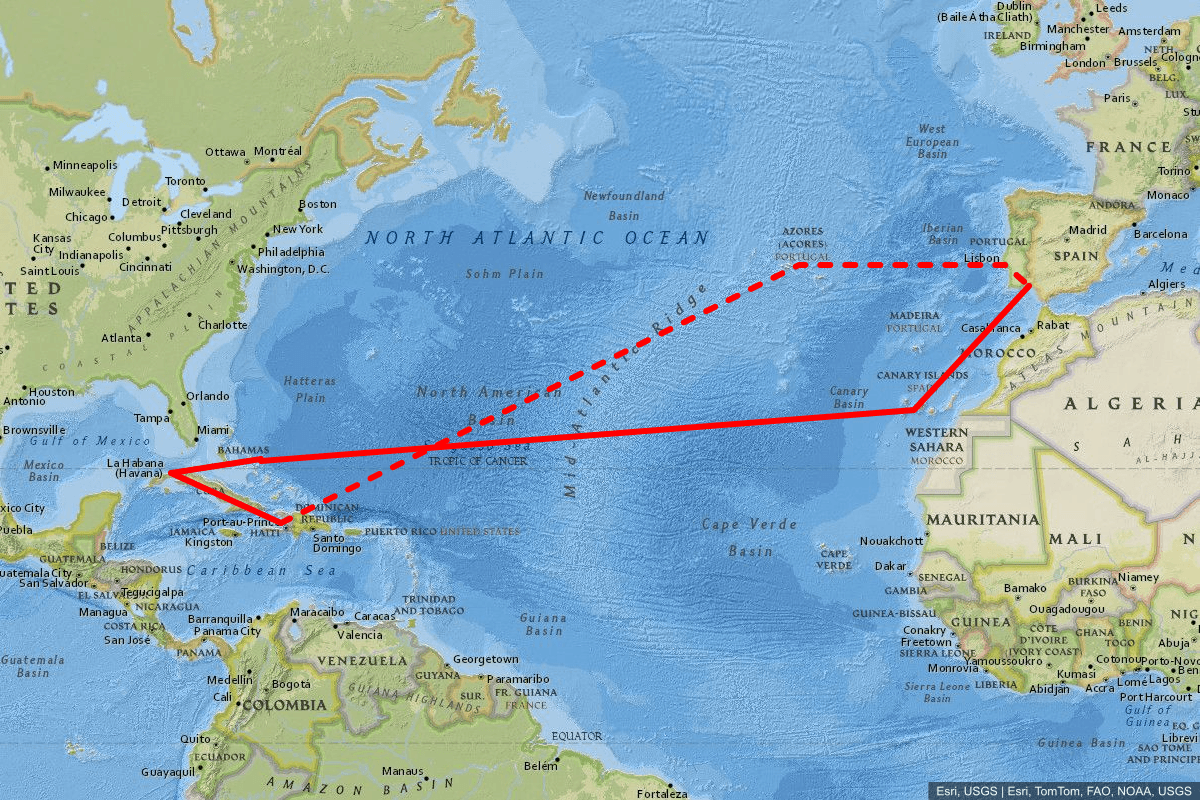
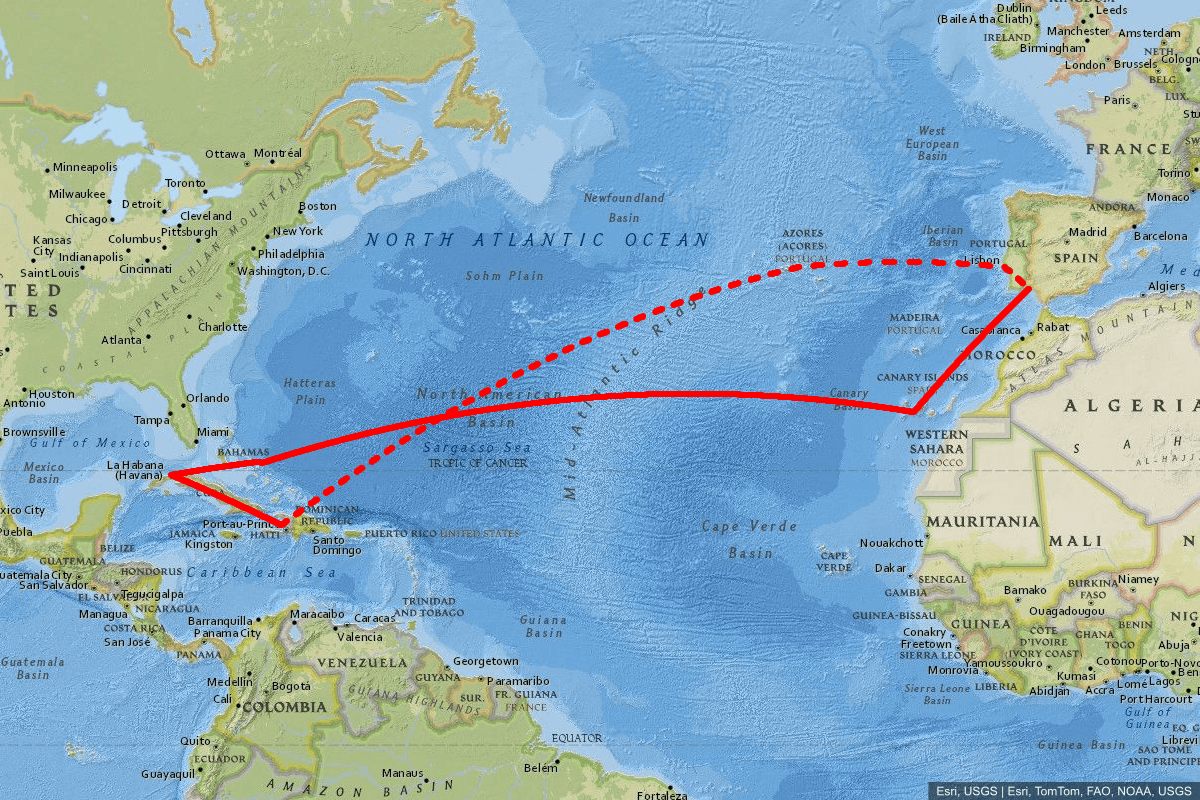
fix: apply geodesic interpolation only for polylines, not polygons
Determines shape type (polygon or polyline) before applying geodesic line generation.
Now generates geodesic segments only for polylines, preserving original coordinates for polygons.

diff --git a/src/staticmaps/features/polyline.ts b/src/staticmaps/features/polyline.ts
@@ -1,10 +1,11 @@
 import { createGeodesicLine, normalizeStrokeDasharray } from "../utils"
 import { PolylineOptions, Coordinate } from "../../types/types"
+import logger from "../../utils/logger"
 
 /**
  * Represents a polyline or polygon with optional styling.
  *
- * If exactly two coordinates are provided, a geodesic line is generated between them.
+ * For each pair of coordinates in the input, a geodesic line is generated between them.
  * If the first and last coordinate are the same, the polyline is treated as a polygon.
  */
 export default class Polyline {
@@ -38,20 +39,9 @@ export default class Polyline {
     this.width = Number.isFinite(options.width) ? Number(options.width) : 3
     this.strokeDasharray = normalizeStrokeDasharray(options.strokeDasharray)
 
-    // Convert to geodesic line if only two coordinates are given
-    this.coords =
-      options.coords.length === 2
-        ? (() => {
-            const fixedStart: Coordinate = [this.coords[0][1], this.coords[0][0]]
-            const fixedEnd: Coordinate = [this.coords[1][1], this.coords[1][0]]
-            const geodesicCoords = createGeodesicLine(fixedStart, fixedEnd)
-            return geodesicCoords
-          })() // Immediately Invoked Function Expression (IIFE) to execute the logic
-        : options.coords // Assuming this is already of type `number[][]`*/
-
     // Determine whether it's a polygon or polyline
-    const firstCoord = this.coords[0]
-    const lastCoord = this.coords[this.coords.length - 1]
+    const firstCoord = options.coords[0]
+    const lastCoord = options.coords[options.coords.length - 1]
     this.type =
       firstCoord &&
       lastCoord &&
@@ -59,6 +49,30 @@ export default class Polyline {
       firstCoord[1] === lastCoord[1]
         ? "polygon"
         : "polyline"
+
+    // Generate geodesic segments only for polylines
+    if (this.type === "polyline" && options.coords.length >= 2) {
+      const segments: Coordinate[] = []
+
+      for (let i = 0; i < options.coords.length - 1; i++) {
+        const start = options.coords[i]
+        const end = options.coords[i + 1]
+
+        // Convert to [lat, lon] for geodesic line generation
+        const geodesicSegment: Coordinate[] = createGeodesicLine(
+          [start[1], start[0]],
+          [end[1], end[0]]
+        ).map(([lat, lon]) => [lon, lat]) // Convert back to [lon, lat]
+
+        // Avoid duplicate points
+        if (segments.length > 0) geodesicSegment.shift()
+        segments.push(...geodesicSegment)
+      }
+
+      this.coords = segments
+    } else {
+      this.coords = options.coords
+    }
   }
 
   /**

diff --git a/src/staticmaps/staticmaps.ts b/src/staticmaps/staticmaps.ts
@@ -586,8 +586,6 @@ class StaticMaps {
     pointsToUse = rawPixels
   } else {
     if (rawPixels.length === 2) {
-      // Exactly two points -> smoothing
-      // Smooth only middle points of polylines with more than two points
       const simplified = douglasPeucker(rawPixels, 2)
       const smoothedPoints = chaikinSmooth(simplified as Coordinate[], 2)
 

diff --git a/README.md b/README.md
@@ -215,7 +215,7 @@ polyline=polylineStyle|polylineCoord1|polylineCoord2|...
   | `fill`               |           | Specifies the fill color of the polyline.                                                                                       |
   | `strokeDasharray`    | (none)    | Pattern of dashes and gaps, e.g., `5,5` see [stroke-dasharray](https://developer.mozilla.org/de/docs/Web/CSS/stroke-dasharray). |
 
-Note: Polylines with only two coordinates are rendered as geodesic line.
+Note: For each pair of coordinates in the input, a geodesic line is generated between them.
 
 <details>
   <summary>Regular Coordinates example with <code>no zoom</code>, <code>weight:6</code>, <code>color:0000ff</code></summary>
